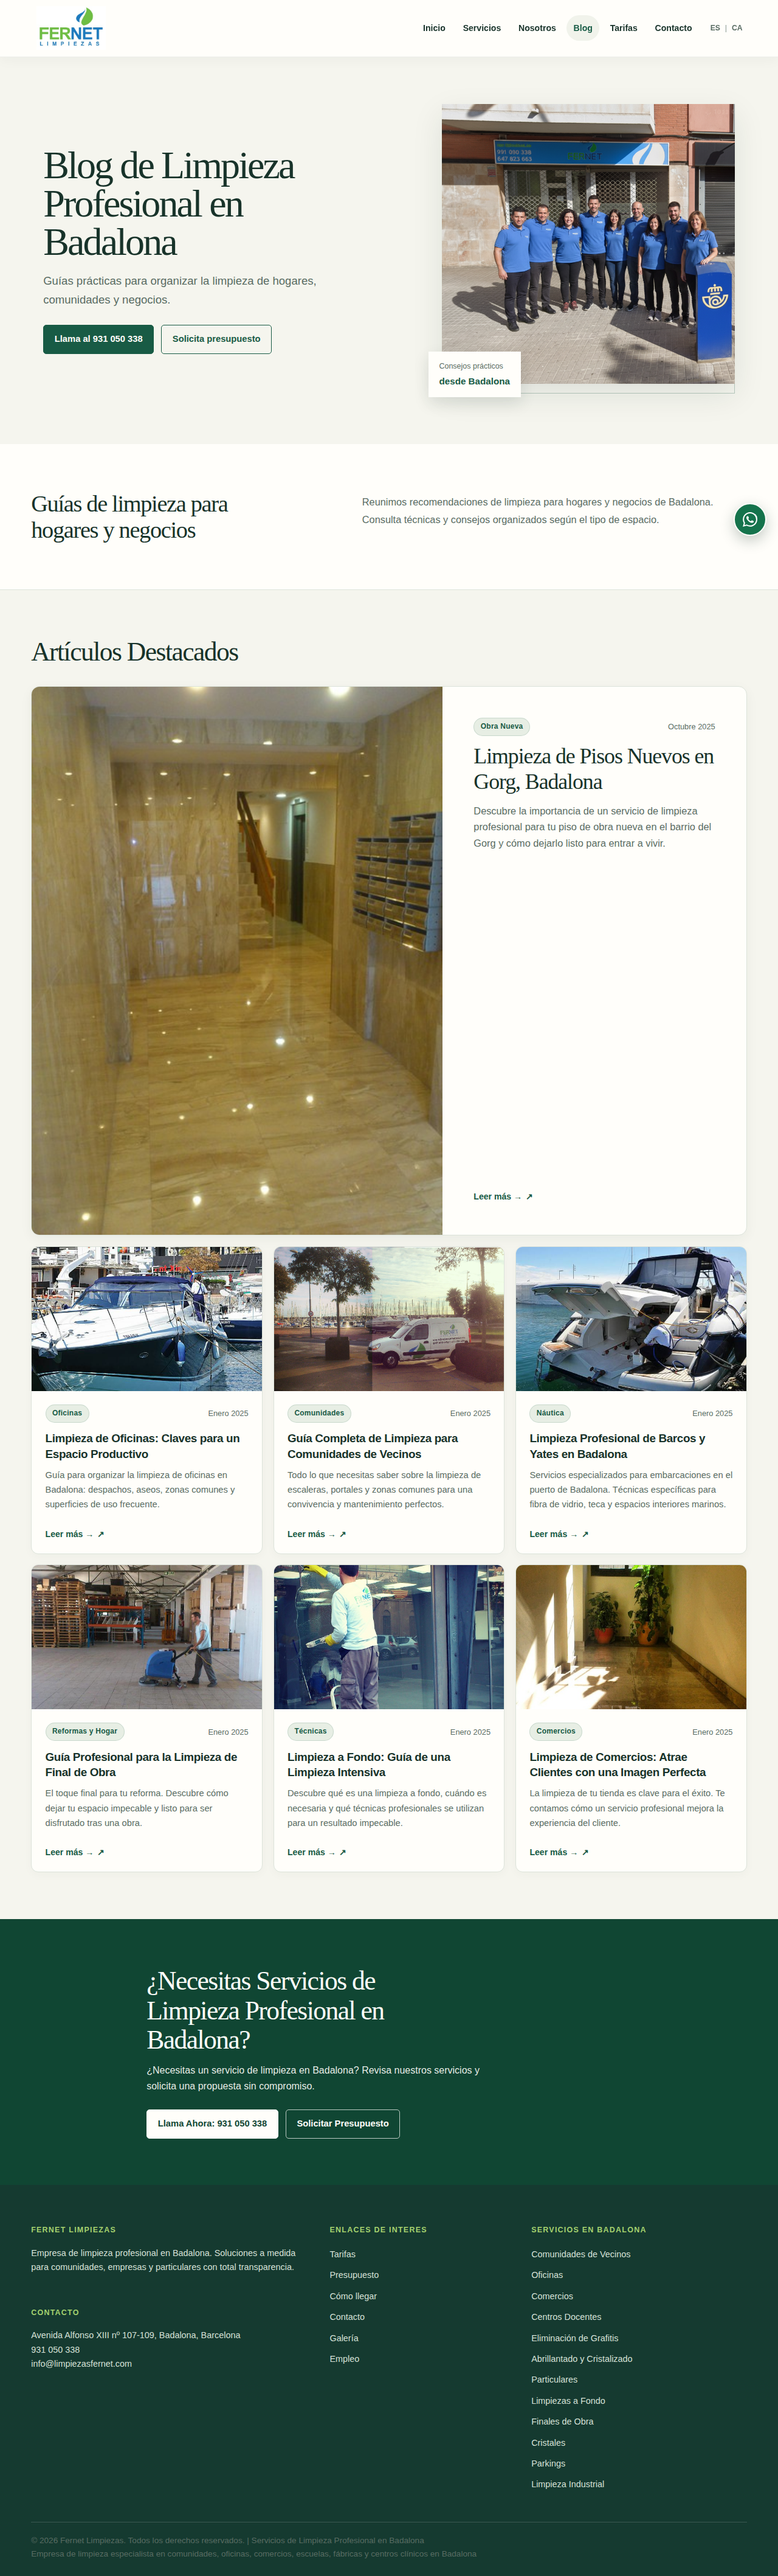
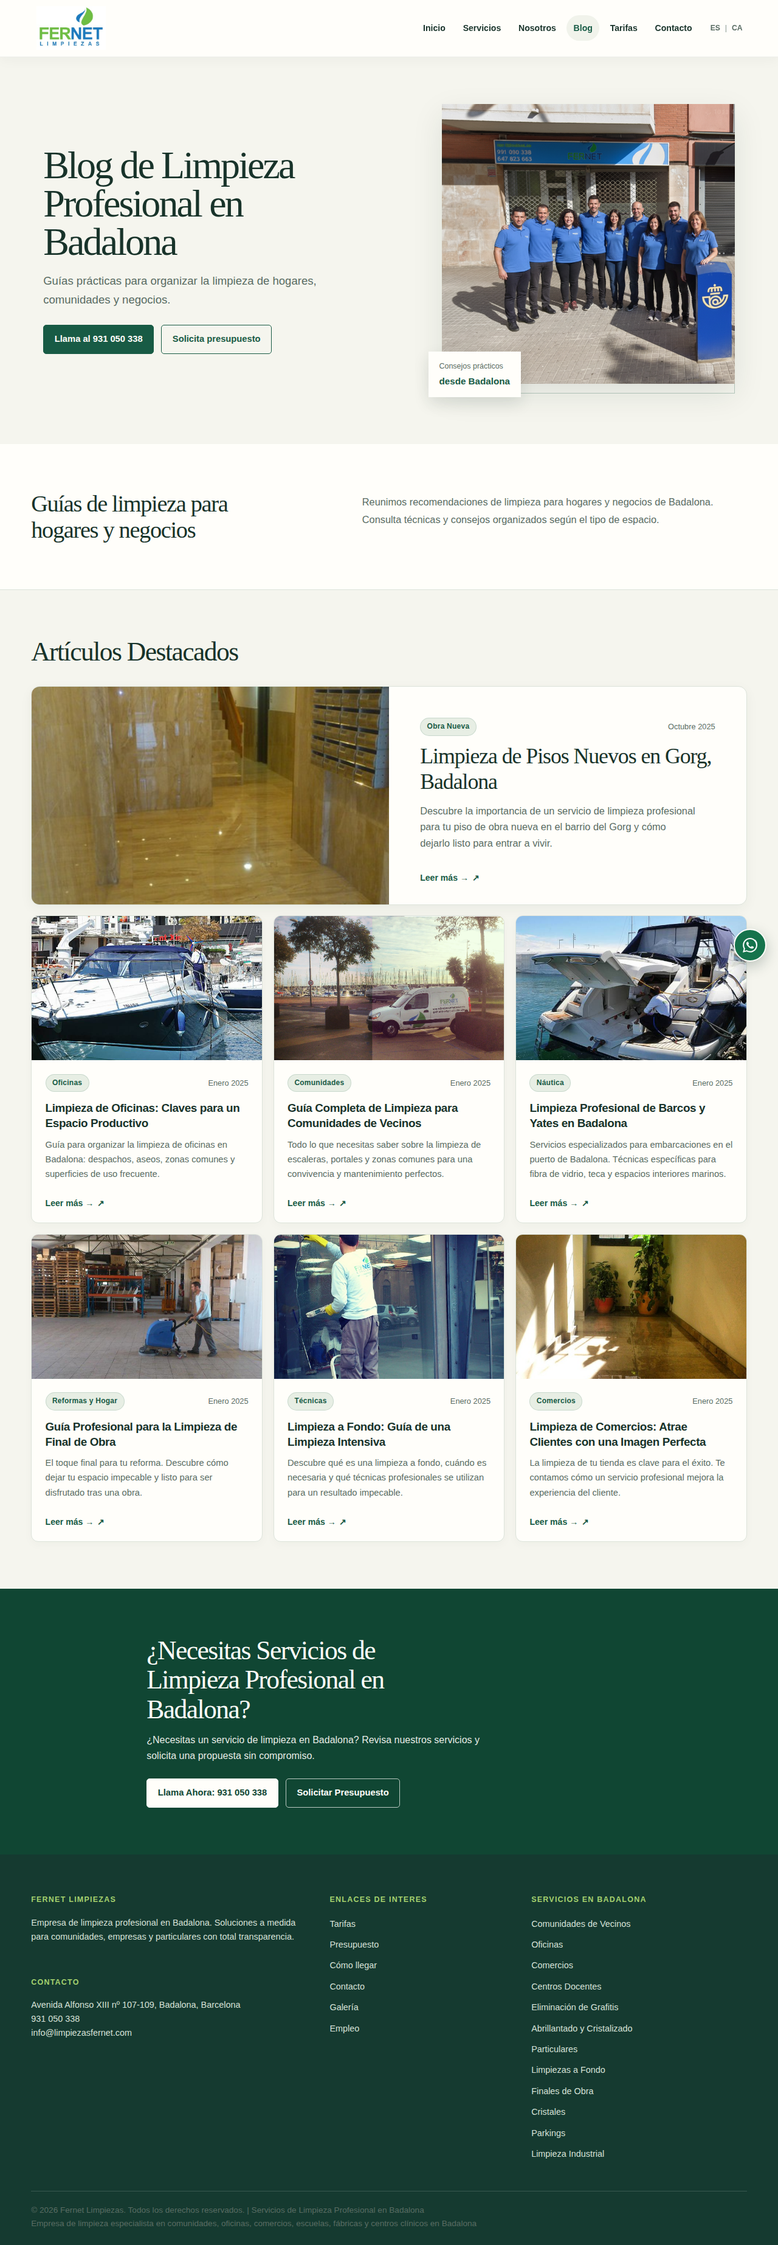
Rediseñar cards del blog y limitar altura de imagen destacada

diff --git a/blog-limpiezas-badalona/blog.css b/blog-limpiezas-badalona/blog.css
@@ -791,8 +791,8 @@ header {
 .blog-card-featured {
     display: grid;
     grid-column: 1 / -1;
-    grid-template-columns: minmax(0, 1.15fr) minmax(0, .85fr);
-    min-height: 380px;
+    grid-template-columns: minmax(0, 1fr) minmax(0, 1fr);
+    max-height: 360px;
     border-radius: 14px;
     background: var(--surface);
     box-shadow: 0 6px 20px rgba(24, 51, 42, .05);
@@ -802,13 +802,13 @@ header {
     position: relative;
     overflow: hidden;
     height: 100%;
-    min-height: 100%;
+    max-height: 360px;
 }
 
 .blog-card-featured .blog-image img {
     width: 100%;
     height: 100%;
-    min-height: 380px;
+    max-height: 360px;
     aspect-ratio: auto;
     object-fit: cover;
 }
